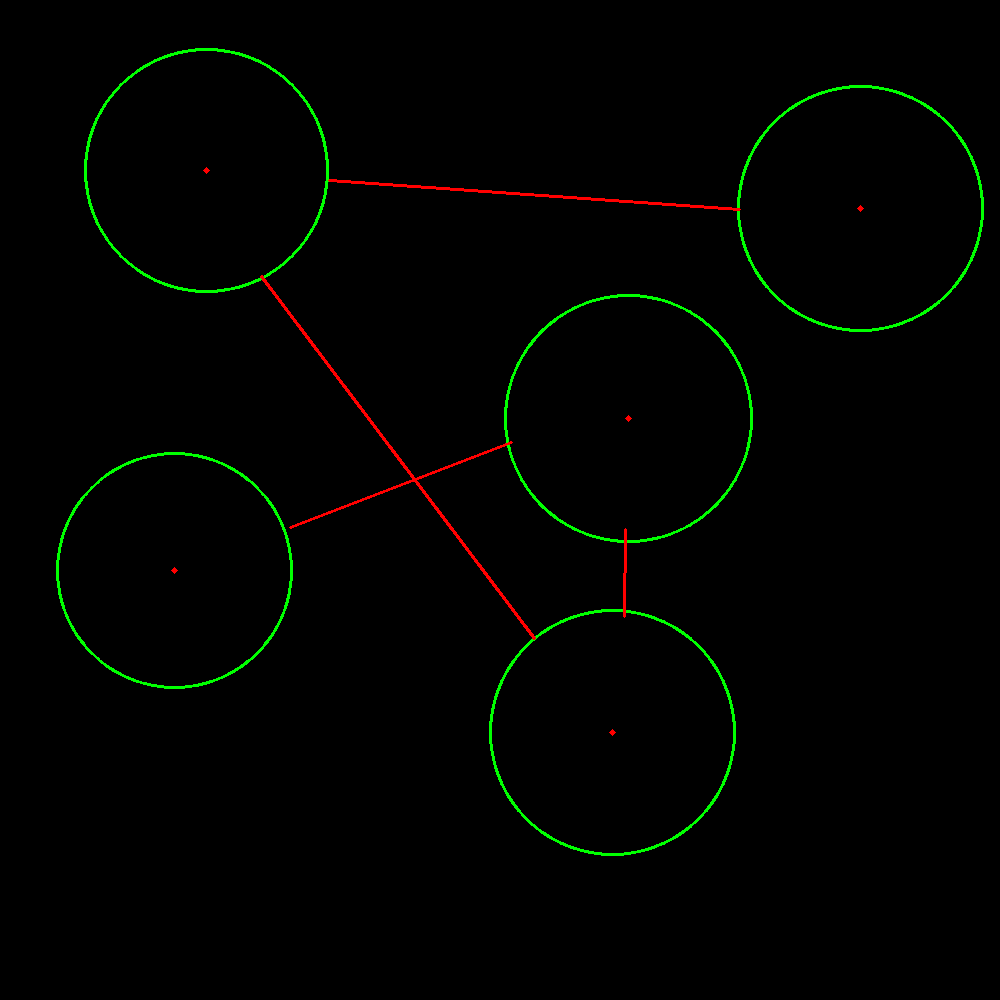
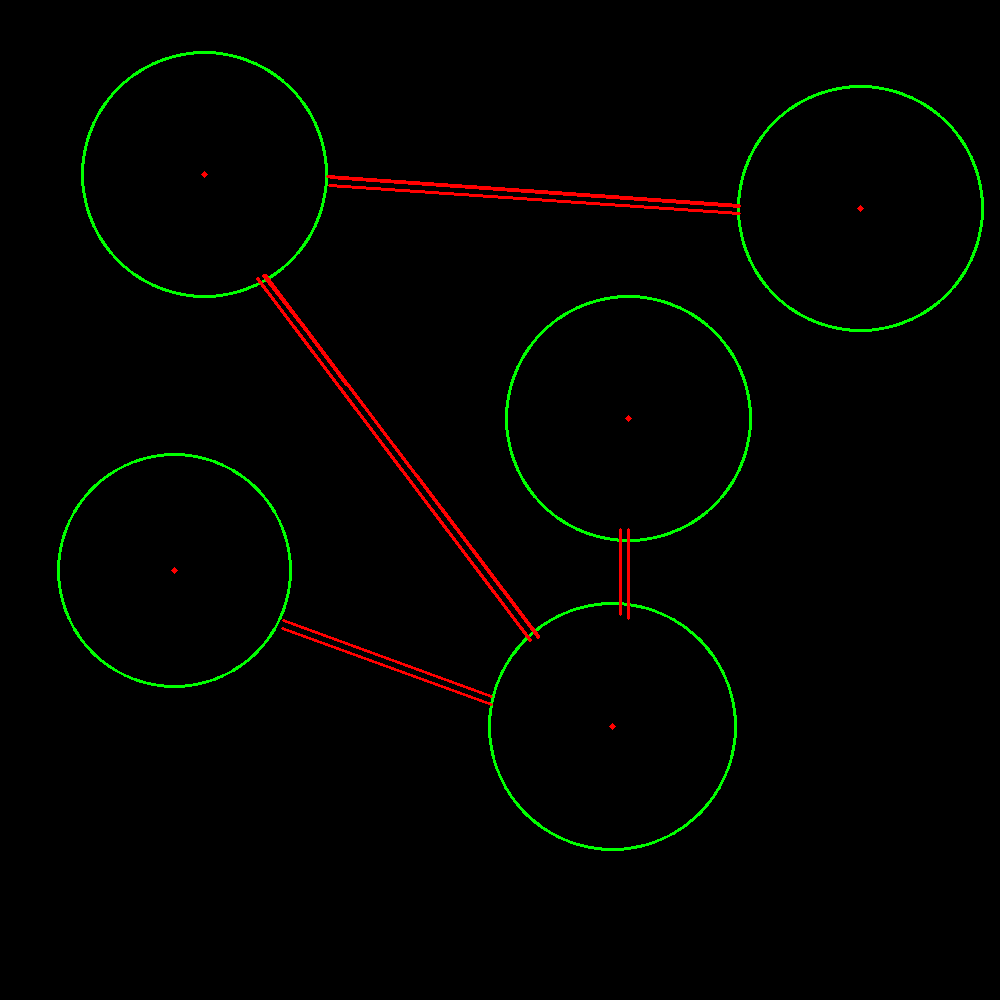
edge touching tests

diff --git a/algo-OpenCV.py b/algo-OpenCV.py
@@ -2,8 +2,8 @@ import cv2
 import numpy as np 
 
 #image_path = "newGood/randomGraph50_80.png"
-folder_path = "whiteboard/"
-image_path = "whiteboard8.JPG"
+folder_path = "mySimpleGraphs/"
+image_path = "very simple graph3.png"
 
 #load image
 image = cv2.imread(folder_path + image_path)
@@ -53,7 +53,7 @@ def detectCircles(image): #https://www.geeksforgeeks.org/circle-detection-using-
 
   detected_circles = cv2.HoughCircles(gray,  
                   cv2.HOUGH_GRADIENT, 1, 100, param1 = 15, 
-              param2 = 15, minRadius = 114, maxRadius = 125) 
+              param2 = 14, minRadius = 114, maxRadius = 125) 
   
   cv2.imwrite("Circles.png", image_circles)
 
@@ -107,6 +107,7 @@ def detectEdges(img): #https://www.geeksforgeeks.org/line-detection-python-openc
   return edges
 
 def mergeLinesToEdge(lines_list):
+  """
   edges = []
   for l1 in lines_list:
     lines_list.remove(l1)
@@ -123,7 +124,8 @@ def mergeLinesToEdge(lines_list):
 
         edges.append([x1,y1,x2,y2])
 
-  return edges
+  return edges"""
+  return lines_list
 
 def checkIfInCircle(point,circles):
   for circle in circles:
@@ -143,9 +145,9 @@ def connectVertices(vertices, edges):
   for edge in edges:
     v1 = checkIfInCircle((edge[0], edge[1]), vertices)
     v2 = checkIfInCircle((edge[2], edge[3]), vertices)
-
-    adj_list[v1].add(v2)
-    adj_list[v2].add(v1)
+    if v1 and v2:
+      adj_list[v1].add(v2)
+      adj_list[v2].add(v1)
   
   return adj_list
 
